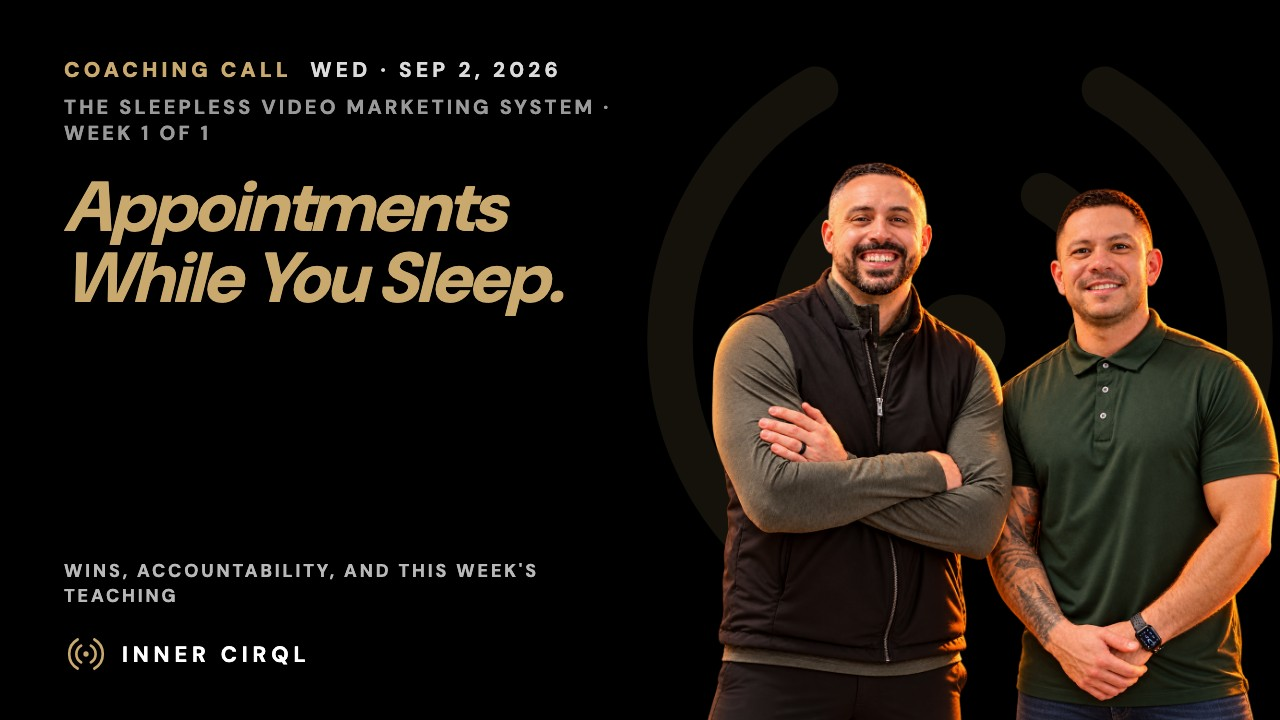
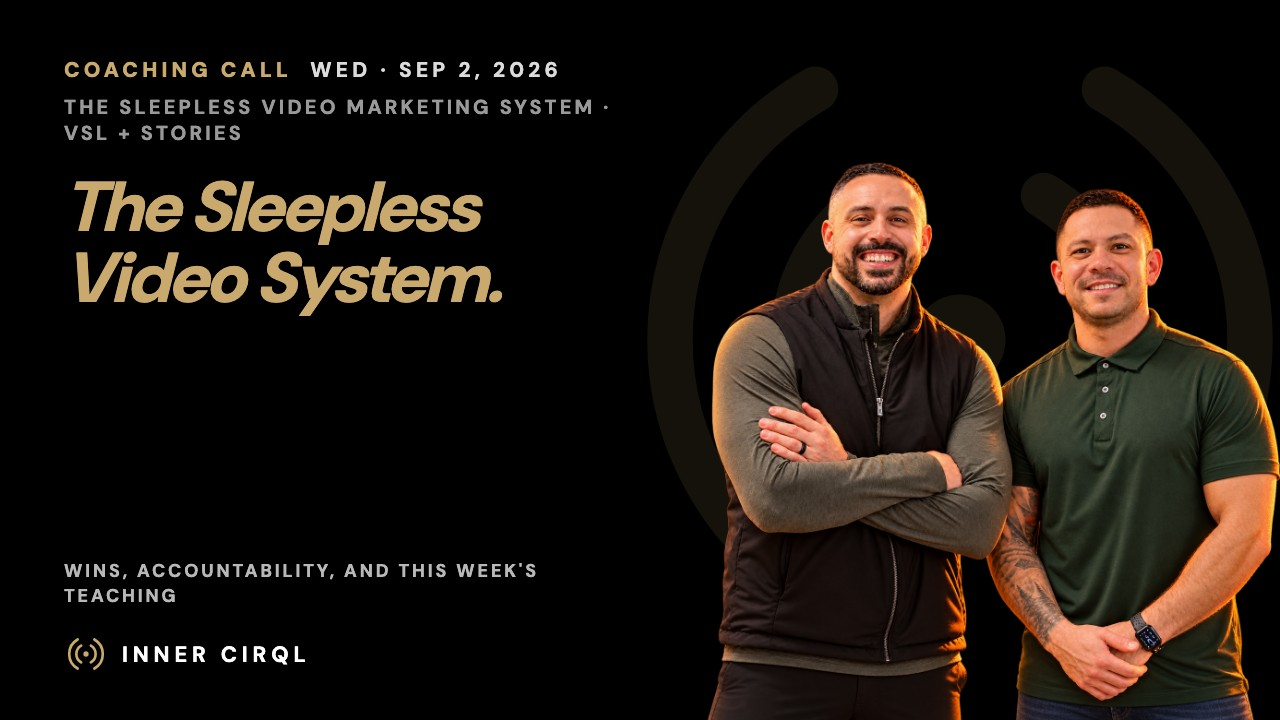
Training: retitle Sep 2 coaching call (The Sleepless Video Marketing System · Appointments While You Sleep.) + thumbnail

Changed region(s): [[0.0312, 0.2444, 0.4375, 0.4583], [0.0625, 0.1528, 0.1875, 0.2139]]

diff --git a/training/index.html b/training/index.html
@@ -94,6 +94,26 @@ window.LIBRARY = {
   ],
   "items": [
     {
+      "id": "v-2026-09-02",
+      "date": "2026-09-02",
+      "dateLabel": "September 2, 2026",
+      "series": "sleepless",
+      "week": 1,
+      "name": "Appointments While You Sleep.",
+      "title": "The Sleepless Video Marketing System · Appointments While You Sleep.",
+      "headline": [
+        "The Sleepless",
+        "Video System."
+      ],
+      "sub": "The Sleepless Video Marketing System · VSL + Stories",
+      "desc": "Two systems, ninety days: one VSL that sells you around the clock, and a ten-second Story from every showing. Appointments while you sleep. Wins, accountability, and the teaching segment, edited replay.",
+      "href": "https://coach.theinnercirql.com/2026-09-02/",
+      "pdf": null,
+      "slides": null,
+      "embed": "https://www.youtube.com/embed/uDBoXa4t-Ic?rel=0&modestbranding=1",
+      "thumb": "/assets/thumbs/sep-2-call.jpg?v=1"
+    },
+    {
       "id": "v-2026-09-09",
       "date": "2026-09-09",
       "dateLabel": "September 9, 2026",
@@ -112,26 +132,6 @@ window.LIBRARY = {
       "slides": null,
       "embed": "https://www.youtube.com/embed/C9o7frIeVIU?rel=0&modestbranding=1",
       "thumb": "/assets/thumbs/sep-9-call.jpg?v=1"
-    },
-    {
-      "id": "v-2026-09-02",
-      "date": "2026-09-02",
-      "dateLabel": "September 2, 2026",
-      "series": "sleepless",
-      "week": 1,
-      "name": "Appointments While You Sleep.",
-      "title": "The Sleepless Video Marketing System · Week 1 · Appointments While You Sleep.",
-      "headline": [
-        "Appointments While You",
-        "Sleep."
-      ],
-      "sub": "The Sleepless Video Marketing System · Week 1 of 1",
-      "desc": "The Sleepless Video Marketing System: the VSL, the five beats of the script, showings stories, and the two systems that book appointments while you sleep. Wins, accountability, and the teaching segment, edited replay.",
-      "href": "https://coach.theinnercirql.com/2026-09-02/",
-      "pdf": null,
-      "slides": null,
-      "embed": "https://www.youtube.com/embed/uDBoXa4t-Ic?rel=0&modestbranding=1",
-      "thumb": "/assets/thumbs/sep-2-call.jpg?v=1"
     },
     {
       "id": "v-2026-08-26",
